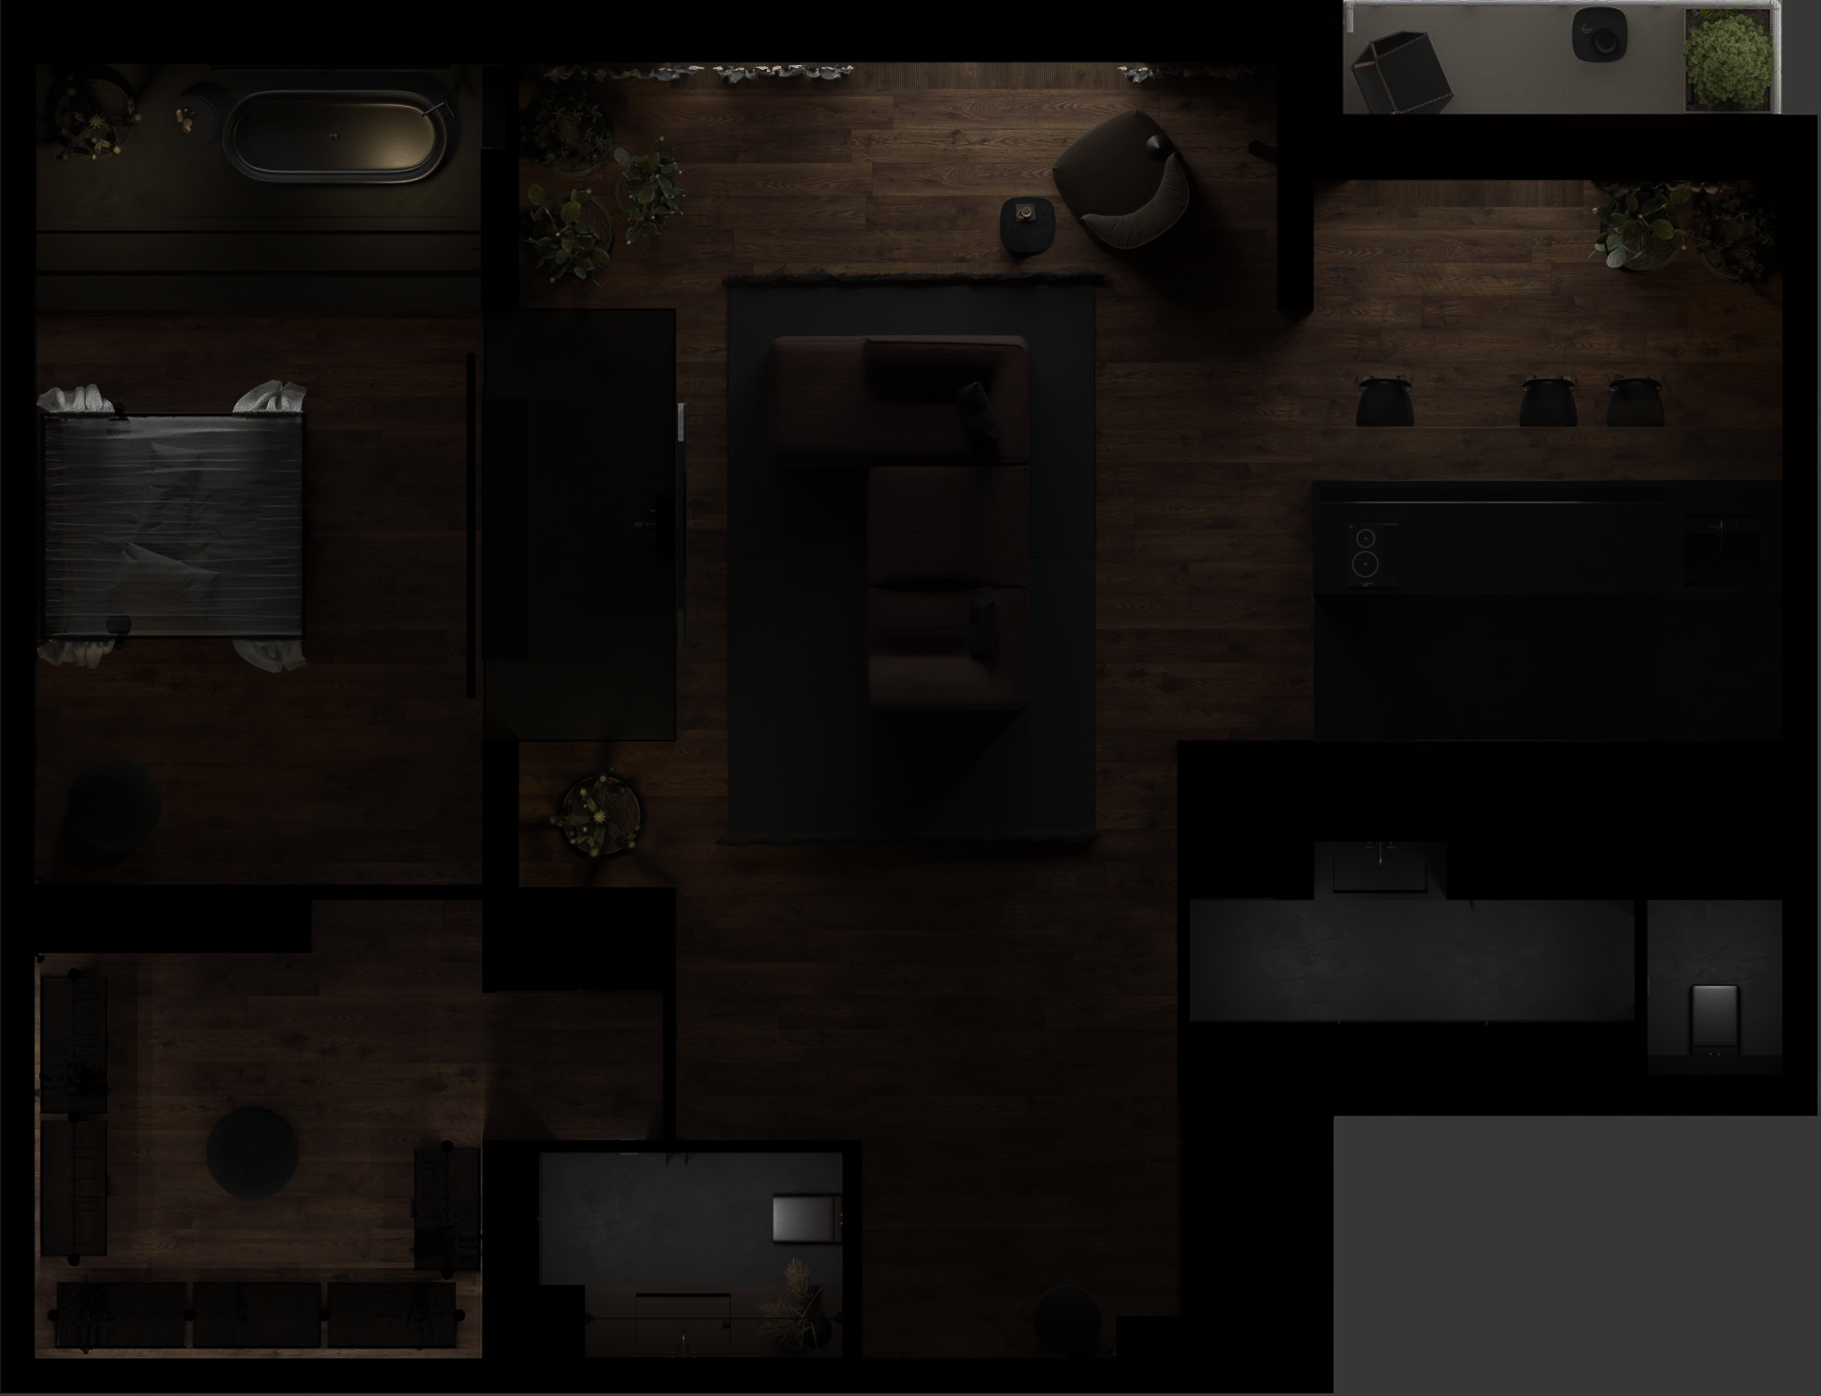
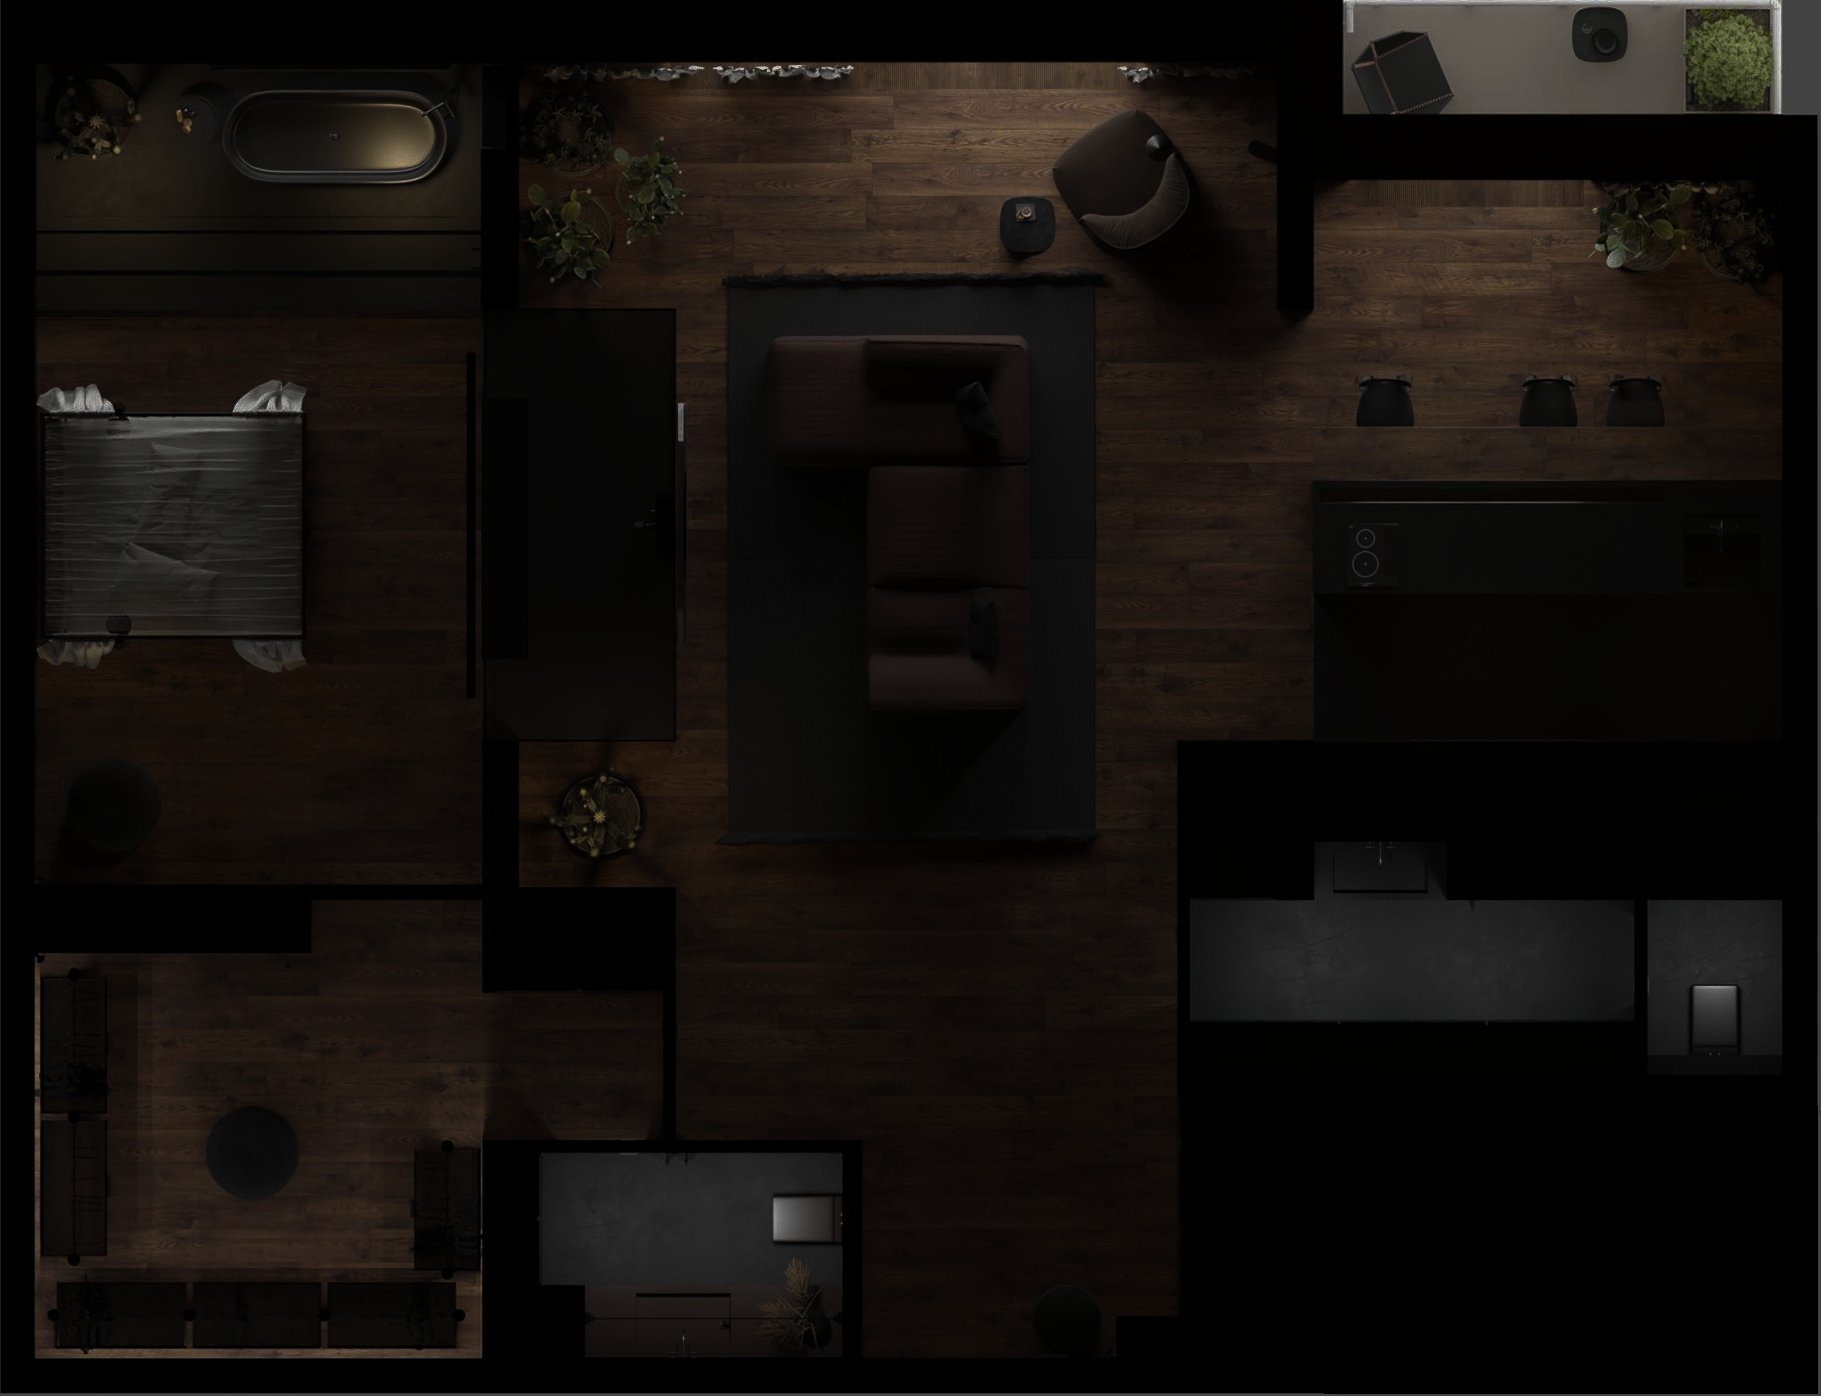
Add: Bathroom

Changed region(s): [[0.7073, 0.8009, 1.0, 1.0]]

diff --git a/src/components/drawerElements/Geyser.tsx b/src/components/drawerElements/Geyser.tsx
@@ -1,0 +1,91 @@
+// @ts-nocheck
+
+import React from "react";
+import {
+  Area,
+  AreaChart,
+  Bar,
+  BarChart,
+  CartesianGrid,
+  Legend,
+  RadialBar,
+  RadialBarChart,
+  Tooltip,
+  XAxis,
+  YAxis,
+} from "recharts";
+import LimitedKnob from "./Knob";
+import { Switch, Typography } from "@material-tailwind/react";
+import geyserImg from "../../assets/geyser/geyser.png";
+import Timer from "../timer/Timer";
+
+const data = [
+  { name: "Sun", uv: 400, pv: 2400, amt: 2400 },
+  { name: "Mon", uv: 300, pv: 1398, amt: 2210 },
+  { name: "Tue", uv: 200, pv: 9800, amt: 2290 },
+  { name: "Wed", uv: 278, pv: 3908, amt: 2000 },
+  { name: "Thur", uv: 189, pv: 4800, amt: 2181 },
+  { name: "Fri", uv: 239, pv: 3800, amt: 2500 },
+  { name: "Sat", uv: 349, pv: 4300, amt: 2100 },
+];
+
+const Geyser = () => {
+  return (
+    <>
+      <div className="flex flex-col justify-between items-center gap-16">
+        <div className="flex justify-between items-center">
+          <div className=""></div>
+          <img src={geyserImg} className="w-48 h-48" alt="" />
+        </div>
+
+        <div className="flex  gap-8">
+          <div className="">Geyser Switch</div>
+          <Switch label="" />
+        </div>
+
+        <Typography variant="h6" color="blue-gray">
+          Geyser Switch Timer
+        </Typography>
+        <Timer />
+        {/* 
+        <AreaChart
+          width={600}
+          height={250}
+          data={data}
+          margin={{ top: 10, right: 30, left: 0, bottom: 0 }}
+        >
+          <defs>
+            <linearGradient id="colorUv" x1="0" y1="0" x2="0" y2="1">
+              <stop offset="5%" stopColor="#8884d8" stopOpacity={0.8} />
+              <stop offset="95%" stopColor="#8884d8" stopOpacity={0} />
+            </linearGradient>
+            <linearGradient id="colorPv" x1="0" y1="0" x2="0" y2="1">
+              <stop offset="5%" stopColor="#82ca9d" stopOpacity={0.8} />
+              <stop offset="95%" stopColor="#82ca9d" stopOpacity={0} />
+            </linearGradient>
+          </defs>
+          <XAxis dataKey="name" />
+          <YAxis />
+          <CartesianGrid strokeDasharray="3 3" />
+          <Tooltip />
+          <Area
+            type="monotone"
+            dataKey="uv"
+            stroke="#8884d8"
+            fillOpacity={1}
+            fill="url(#colorUv)"
+          />
+          <Area
+            type="monotone"
+            dataKey="pv"
+            stroke="#82ca9d"
+            fillOpacity={1}
+            fill="url(#colorPv)"
+          />
+        </AreaChart> */}
+      </div>
+    </>
+  );
+};
+
+export default Geyser;

diff --git a/src/components/floors/FloorsLayout.tsx b/src/components/floors/FloorsLayout.tsx
@@ -14,10 +14,10 @@ import { useEffect, useRef, useState } from "react";
 import { useLocation, useParams } from "react-router-dom";
 import Fans from "../drawerElements/Fans";
 import Lights from "../drawerElements/Lights";
-import { LightBulbIcon } from "@heroicons/react/24/solid";
 import BedroomCard from "../drawerElements/Bedroom/BedroomCard";
 import LivingRoomCard from "../drawerElements/Livingroom/LivingRoomCard";
 import MainDoorCard from "../drawerElements/MainDoor/MainDoorCard";
+import BathRoomCard from "../drawerElements/Bathroom/BathRoomCard";
 
 const FloorsLayout = () => {
   // const location = useLocation(); //To get the URL location
@@ -39,6 +39,10 @@ const FloorsLayout = () => {
 
     // Do something with the coordinates
     console.log("Clicked at:", x, y);
+
+    if ((x > 0 && x < 255 )&& (y > 0 && y < 230)) {
+      setStOpenElement("bathroom");
+    }
 
     if (x > 24 && x < 255 && y > 180 && y < 480) {
       setStOpenElement("bedroom");
@@ -98,7 +102,7 @@ const FloorsLayout = () => {
             <>
               <img
                 src={floor1Normal}
-                className="w-full h-[calc(96vh-0rem)] object-contain"
+                className="w-full h-[calc(96vh-0rem)] object-contain rounded-md"
                 alt="floor 1"
                 onClick={handleClick}
               />
@@ -109,7 +113,7 @@ const FloorsLayout = () => {
             <>
               <img
                 src={floor1Dark}
-                className="w-full h-[calc(96vh-0rem)] object-contain"
+                className="w-full h-[calc(96vh-0rem)] object-contain rounded-md"
                 alt="floor 1"
                 onClick={handleClick}
               />
@@ -139,6 +143,7 @@ const FloorsLayout = () => {
             {stOpenElement == "bedroom" && <BedroomCard />}
             {stOpenElement == "livingroom" && <LivingRoomCard />}
             {stOpenElement == "maindoor" && <MainDoorCard />}
+            {stOpenElement == "bathroom" && <BathRoomCard />}
           </Drawer>
         </div>
       </div>

diff --git a/src/components/drawerElements/Bathroom/BathRoomCard.tsx b/src/components/drawerElements/Bathroom/BathRoomCard.tsx
@@ -1,5 +1,6 @@
 // @ts-nocheck
 
+import React from "react";
 import {
   Tab,
   TabPanel,
@@ -8,20 +9,18 @@ import {
   TabsHeader,
   Typography,
 } from "@material-tailwind/react";
-import React from "react";
 import Lights from "../Lights";
 import Fans from "../Fans";
-import { ClipboardDocumentIcon } from "@heroicons/react/24/solid";
-import { ClipboardDocumentCheckIcon } from "@heroicons/react/24/solid";
 import { ClipboardIcon } from "@heroicons/react/24/outline";
 import Smoke from "../Smoke";
+import Geyser from "../Geyser";
 
-const BedroomCard = () => {
+const BathRoomCard = () => {
   const data = [
     {
-      label: "Fans",
-      value: "Fans",
-      desc: <Fans />,
+      label: "Geyser",
+      value: "Geyser",
+      desc: <Geyser />,
     },
     {
       label: "Lights",
@@ -40,18 +39,18 @@ const BedroomCard = () => {
       <div className="flex flex-col gap-8">
         <div className="flex flex-row justify-between items-center">
           <Typography variant="h3" color="blue-gray">
-            Bedroom
+            Bath room 
           </Typography>
 
           <div className="flex items-center gap-2">
             <Typography variant="h6" color="blue-gray">
-              Room Id : 562387
+              Room Id : 2232312
             </Typography>
             <ClipboardIcon className="h-4 w-4" />
           </div>
         </div>
 
-        <Tabs value="Fans">
+        <Tabs value="Geyser">
           <TabsHeader>
             {data.map(({ label, value }) => (
               <Tab key={value} value={value}>
@@ -72,4 +71,4 @@ const BedroomCard = () => {
   );
 };
 
-export default BedroomCard;
+export default BathRoomCard;

diff --git a/src/components/timer/Timer.tsx b/src/components/timer/Timer.tsx
@@ -1,0 +1,51 @@
+// @ts-nocheck
+
+import { Button, Switch } from "@material-tailwind/react";
+import React from "react";
+import { useTimer } from "react-timer-hook";
+
+function Timer({ expiryTimestamp }) {
+  const {
+    totalSeconds,
+    seconds,
+    minutes,
+    hours,
+    days,
+    isRunning,
+    start,
+    pause,
+    resume,
+    restart,
+  } = useTimer({
+    expiryTimestamp,
+    onExpire: () => console.warn("onExpire called"),
+  });
+
+  return (
+    <div style={{ textAlign: "center" }}>
+      <div style={{ fontSize: "48px" }}>
+        <span>{days}</span>:<span>{hours}</span>:<span>{minutes}</span>:
+        <span>{seconds}</span>
+      </div>
+      <p>{isRunning ? " Running" : "Not running"}</p>
+
+      <div className="flex gap-4 mt-4">
+        <Button onClick={start}>Start</Button>
+        <Button onClick={pause}>Pause</Button>
+        <Button onClick={resume}>Resume</Button>
+        <Button
+          onClick={() => {
+            // Restarts to 5 minutes timer
+            const time = new Date();
+            time.setSeconds(time.getSeconds() + 300);
+            restart(time);
+          }}
+        >
+          Restart
+        </Button>
+      </div>
+    </div>
+  );
+}
+
+export default Timer;

diff --git a/src/components/drawerElements/Livingroom/LivingRoomCard.tsx b/src/components/drawerElements/Livingroom/LivingRoomCard.tsx
@@ -27,8 +27,8 @@ const LivingRoomCard = () => {
       desc: <Lights />,
     },
     {
-      label: "Smoke Detector",
-      value: "Smoke",
+      label: "Fire Detector",
+      value: "Fire",
       desc: <Smoke />,
     },
   ];

diff --git a/src/components/drawerElements/MainDoor/MainDoorCard.tsx b/src/components/drawerElements/MainDoor/MainDoorCard.tsx
@@ -20,8 +20,8 @@ const MainDoorCard = () => {
       desc: <DoorLock />,
     },
     {
-      label: "Smoke Detector",
-      value: "Smoke",
+      label: "Fire Detector",
+      value: "Fire",
       desc: <Smoke />,
     },
   ];
